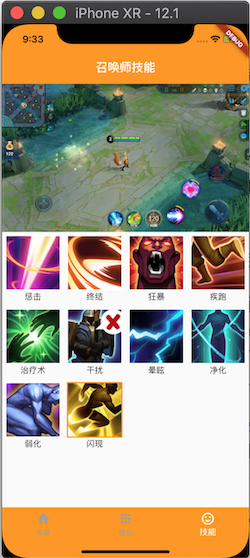
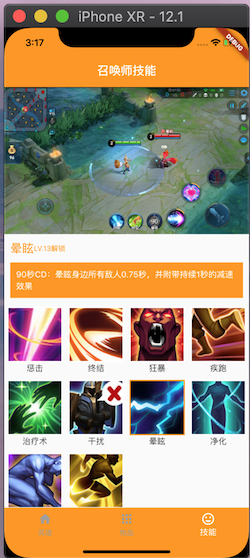
add
添加召唤师技能描述

diff --git a/lib/Net/Net.dart b/lib/Net/Net.dart
@@ -210,24 +210,34 @@ List<HeroVideo> _parseVideoHTML(String html) {
 Future<List<CommonSkill>> getCommonSkill() async {
   try {
     Response response = await dio.get(MainUrl+'summoner.shtml');
-    print('获取到main结果，开始解析');
+    print('获取到skill结果，开始解析');
     final html = await gbk.decode(response.data);
-    return await _parseCommonHtml(html);
+    Response detailJson = await Dio(BaseOptions(contentType: ContentType.json, responseType: ResponseType.json)).get('https://pvp.qq.com/web201605/js/summoner.json');
+    return await _parseCommonHtml(html, detailJson.toString());
   } catch (e) {
-    print('main发生了错误: '+e.toString());
+    print('skill发生了错误: '+e.toString());
   }
 }
-List<CommonSkill> _parseCommonHtml(String html) {
+List<CommonSkill> _parseCommonHtml(String html, String json) {
   final doc = parse(html);
   final skills = doc.getElementsByClassName("imgtextlist spell-list").first;
   List<CommonSkill> result = [];
+  final details = jsonDecode(json);
+  Map<String, dynamic> map = {};
+  for (final item in details) {
+    map[item['summoner_id'].toString()] = item;
+  }
   for (final item in skills.children) {
     String number = item.attributes['id'];
     String name = item.children[1].text;
     String href = item.children[0].attributes['src'];
+    final detail = map[number];
     result.add(CommonSkill(
       name: name,
       href: href,
+      ID: number,
+      rank: detail['summoner_rank'].toString(),
+      description: detail['summoner_description'].toString(),
       showImageHref: "//game.gtimg.cn/images/yxzj/img201606/summoner/$number-big.jpg"
     ));
   }

diff --git a/lib/View/CommonContent.dart b/lib/View/CommonContent.dart
@@ -106,6 +106,40 @@ class _CommonContentState extends State<CommonContent> {
             },
           ),
         ),
+        Padding(
+          padding: EdgeInsets.only(left: 10, top: 10),
+          child: Row(
+            mainAxisAlignment: MainAxisAlignment.start,
+            children: <Widget>[
+              Text(
+                _skills.length==0?'':_skills[_selected].name,
+                style: TextStyle(
+                    color: Theme.of(context).primaryColor,
+                    fontSize: 20
+                ),
+              ),
+              Text(
+                _skills.length==0?'':_skills[_selected].rank,
+                style: TextStyle(
+                    color: Theme.of(context).primaryColor,
+                    fontSize: 12
+                ),
+              ),
+            ],
+          ),
+        ),
+        Container(
+          padding: EdgeInsets.all(10),
+          margin: EdgeInsets.all(10),
+          color: Theme.of(context).primaryColor,
+          width: MediaQuery.of(context).size.width-20,
+          child: Text(
+            _skills.length==0?'':_skills[_selected].description,
+            style: TextStyle(
+                color: Colors.white
+            ),
+          ),
+        ),
         Expanded(
           child: GridView.builder(
             padding: EdgeInsets.all(5),

diff --git a/lib/View/HeroVideo.dart b/lib/View/HeroVideo.dart
@@ -92,6 +92,23 @@ class _HeroVideoState extends State<HeroVideo> {
     );
   }
 
+  Widget loading() {
+    return Center(
+      child: Column(
+        mainAxisSize: MainAxisSize.max,
+        crossAxisAlignment: CrossAxisAlignment.center,
+        mainAxisAlignment: MainAxisAlignment.center,
+        children: <Widget>[
+          CircularProgressIndicator(),
+          Padding(
+            padding: EdgeInsets.only(top: 20),
+            child: Text('加载中...'),
+          ),
+        ],
+      ),
+    );
+  }
+
   @override
   Widget build(BuildContext context) {
     final width = MediaQuery.of(context).size.width;
@@ -111,7 +128,7 @@ class _HeroVideoState extends State<HeroVideo> {
             controller: _chewieController,
           ),
           Expanded(
-            child: ListView.builder(
+            child: widget.hero.videos==null? loading() : ListView.builder(
               itemExtent: 100,
               padding: EdgeInsets.all(5),
               itemCount: widget.hero.videos==null?0:widget.hero.videos.length,

diff --git a/lib/Model/HeroData.dart b/lib/Model/HeroData.dart
@@ -72,5 +72,11 @@ class CommonSkill {
   String href;
   //大图url
   String showImageHref;
-  CommonSkill({this.name, this.href, this.showImageHref});
+  //技能ID
+  String ID;
+  //解锁时间
+  String rank;
+  //描述
+  String description;
+  CommonSkill({this.name, this.href, this.showImageHref, this.ID, this.rank, this.description});
 }
